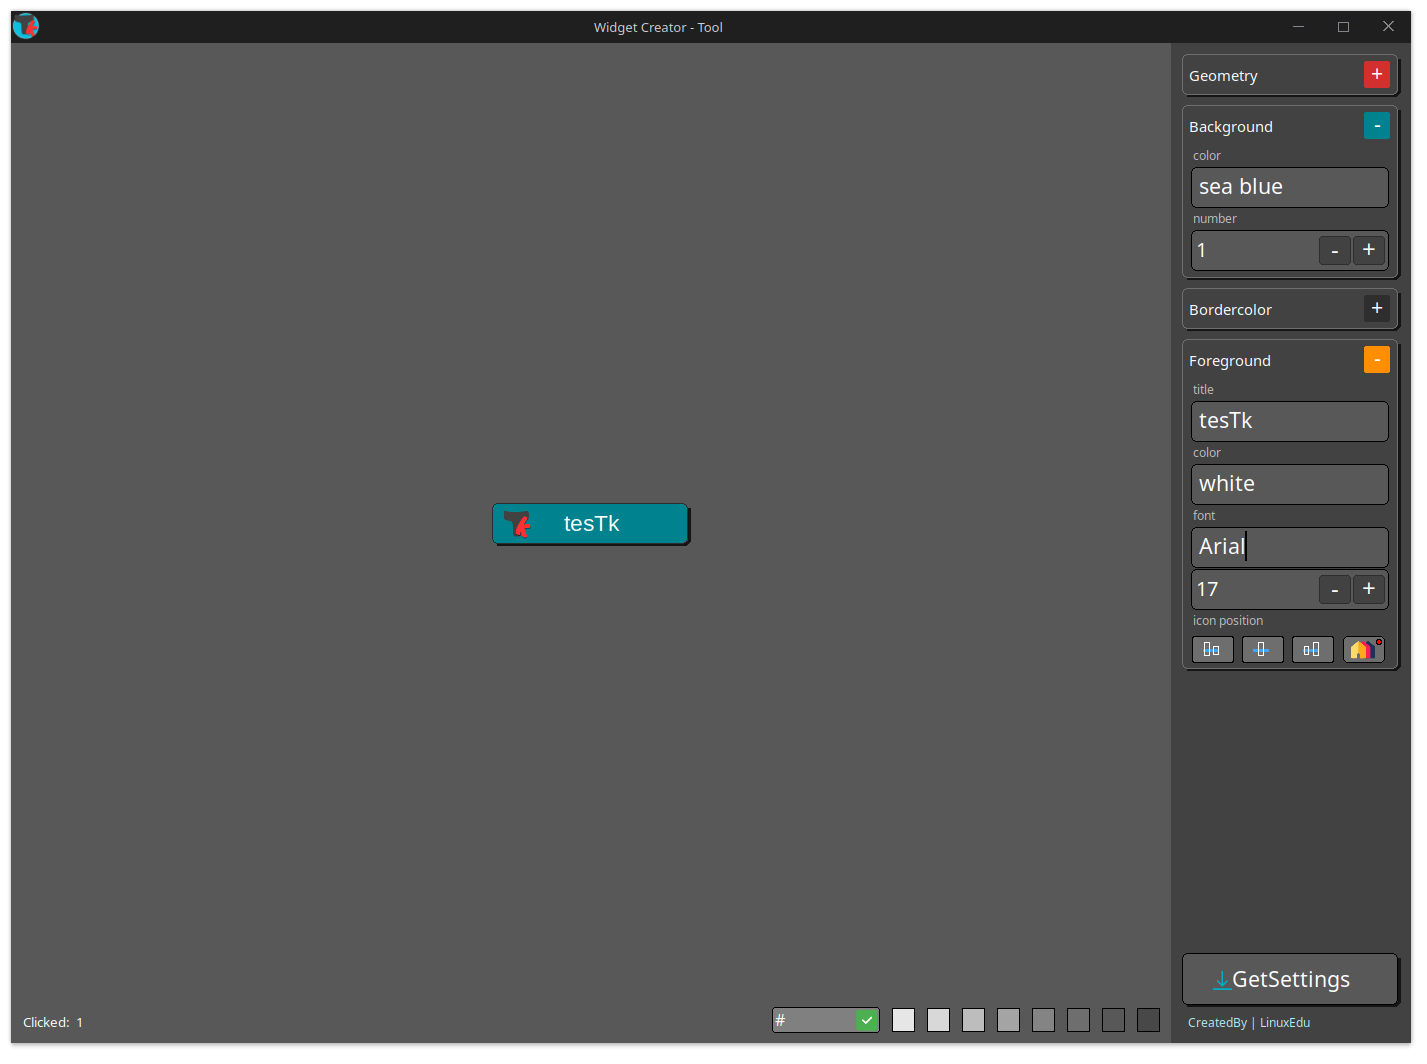
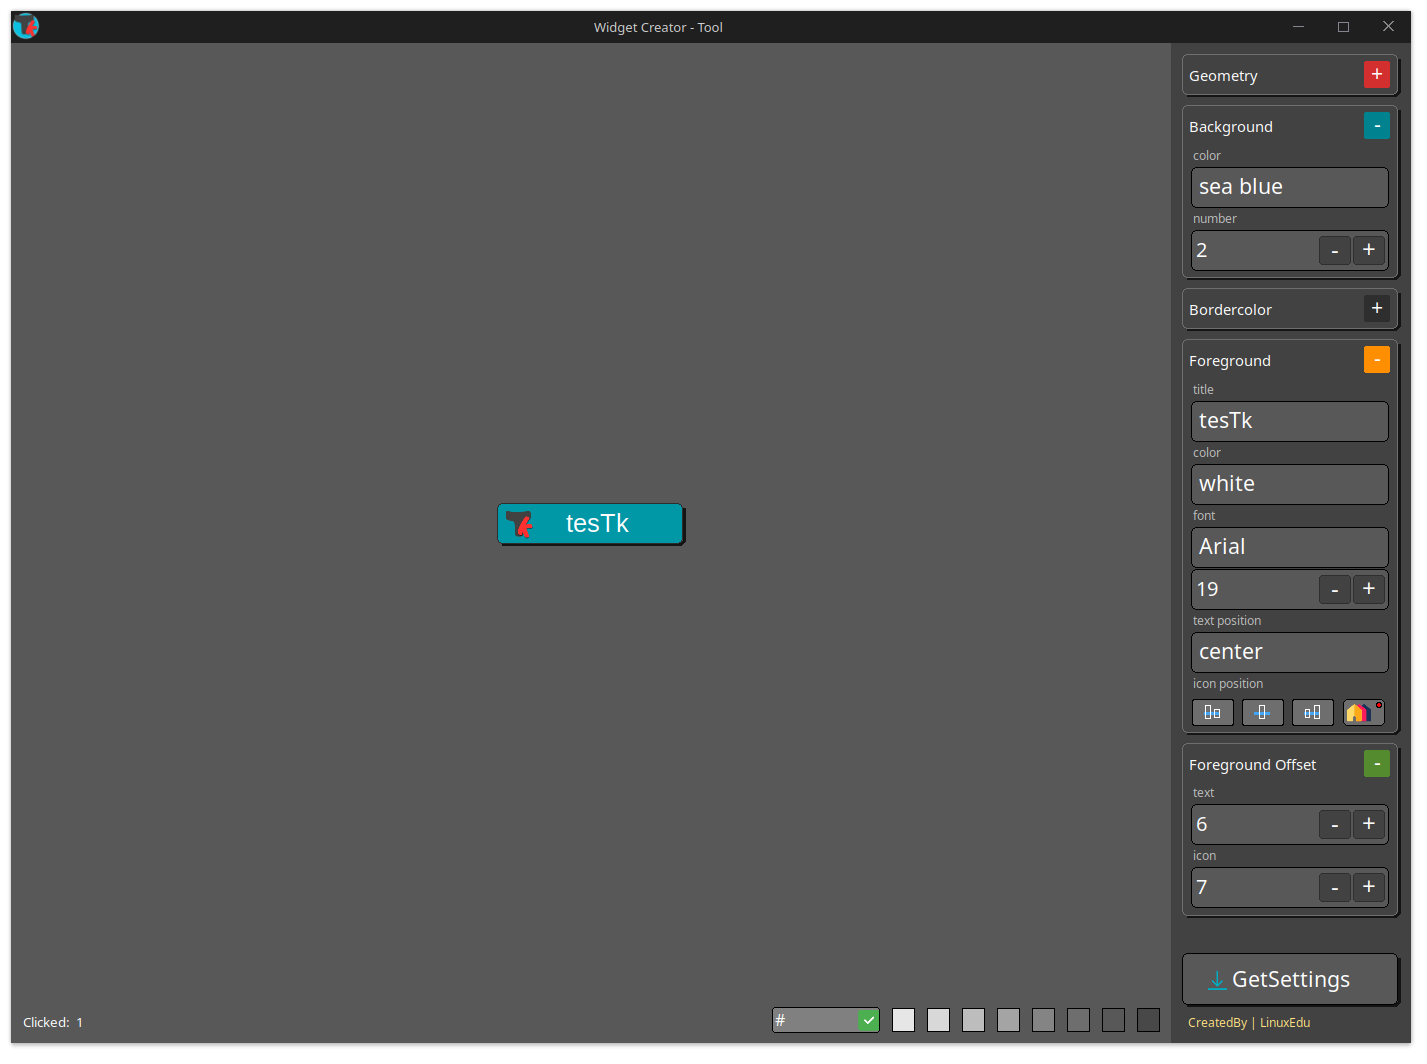
update Readme, images

diff --git a/README.md b/README.md
@@ -23,18 +23,19 @@ from widgets import tesButton
 settings = {
 	'width':            200,
 	'height':           44,
-	'radius':           11,
-	'backgroundidx':    1,
+	'backgroundidx':    2,
 	'bordercoloridx':   3,
-	'fontsize':         18,
+	'fontsize':         19,
+	'textoffset':       6,
+	'iconoffset':       7,
 	'background':       'sea blue',
 	'bordercolor':      'black',
-	'text':             'Widget',
 	'textcolor':        'white',
 	'fonttype':         'Arial',
+	'textposition':     'center',
+	'text':             'tesTk',
 	'icon':             './icons/tk_smal.png',
 	'iconposition':     'w',
-	'iconoffset':       5,
 	'style':            'simple'}
 
 app = App()
@@ -230,7 +231,7 @@ window.mainloop()
 
 ## tesWidgetBox - widget
 
-> tesWidgetBox is a box, a container for creating custom widgets. You can set the title, maximum width and maximum height of the widget and place all other widgets in it. Very importantly, the size of this widget changes.
+> tesWidgetBox is a box, a container for creating custom widgets. You can set the title, maximum width and maximum height of the widget and place all other widgets in it. Very importantly, the size of this widget changes. It supports border animation. This widget is used in WidgetCreatorTool
 
 <p align="center">
   <img style="display: inline-block" src="/images/tesWidgetBox_real.png" width='45%'>
